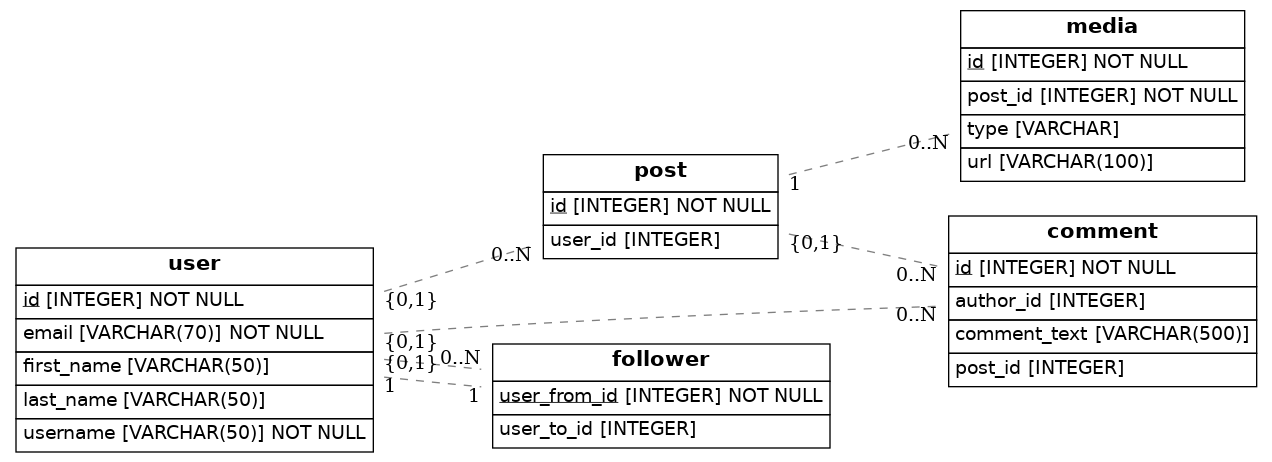
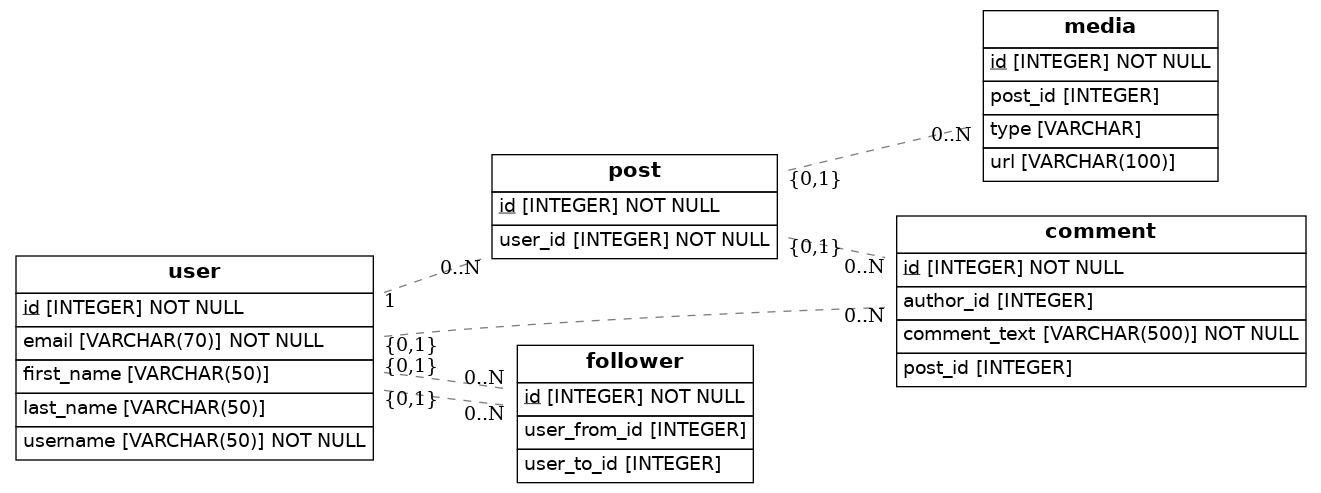
now final

Changed region(s): [[0.0, 0.5152, 0.6439, 1.0], [0.3373, 0.303, 1.0, 0.8485], [0.7052, 0.0, 0.9811, 0.3939]]

diff --git a/src/models.py b/src/models.py
@@ -22,7 +22,7 @@ class Post(Base):
     # Here we define columns for the table address.
     # Notice that each column is also a normal Python instance attribute.
     id = Column(Integer, primary_key=True)
-    user_id = Column(Integer, ForeignKey('user.id'))
+    user_id = Column(Integer, ForeignKey('user.id'), nullable=False)
     user = relationship(User)
 
 class Media(Base):
@@ -30,13 +30,13 @@ class Media(Base):
     id = Column(Integer, primary_key=True)
     type = Column(Enum())
     url = Column(String(100))
-    post_id = Column(Integer, ForeignKey('post.id'), nullable=False)
+    post_id = Column(Integer, ForeignKey('post.id'))
     post = relationship(Post)
 
 class Comment(Base):
     __tablename__ = 'comment'
     id = Column(Integer, primary_key=True)
-    comment_text = Column(String(500))
+    comment_text = Column(String(500), nullable=False)
     author_id = Column(Integer, ForeignKey('user.id'))
     post_id = Column(Integer, ForeignKey('post.id'))
     user = relationship(User)
@@ -44,7 +44,8 @@ class Comment(Base):
 
 class Follower(Base):
     __tablename__ = 'follower'
-    user_from_id = Column(Integer, ForeignKey('user.id'), primary_key=True)
+    id = Column(Integer, primary_key=True)
+    user_from_id = Column(Integer, ForeignKey('user.id'))
     user_to_id = Column(Integer, ForeignKey('user.id'))
     user = relationship(User)
 
